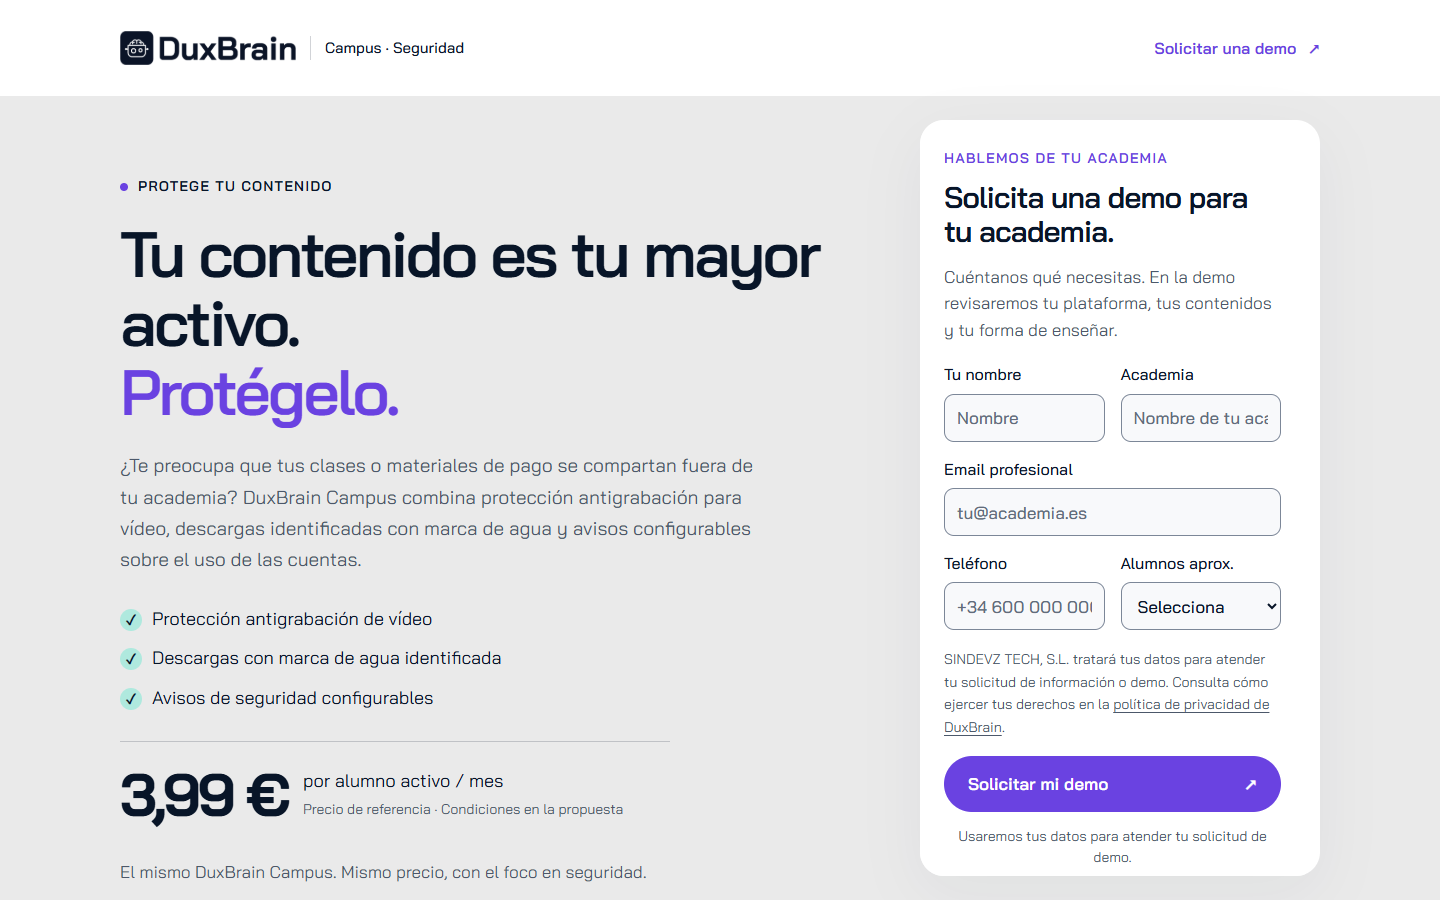
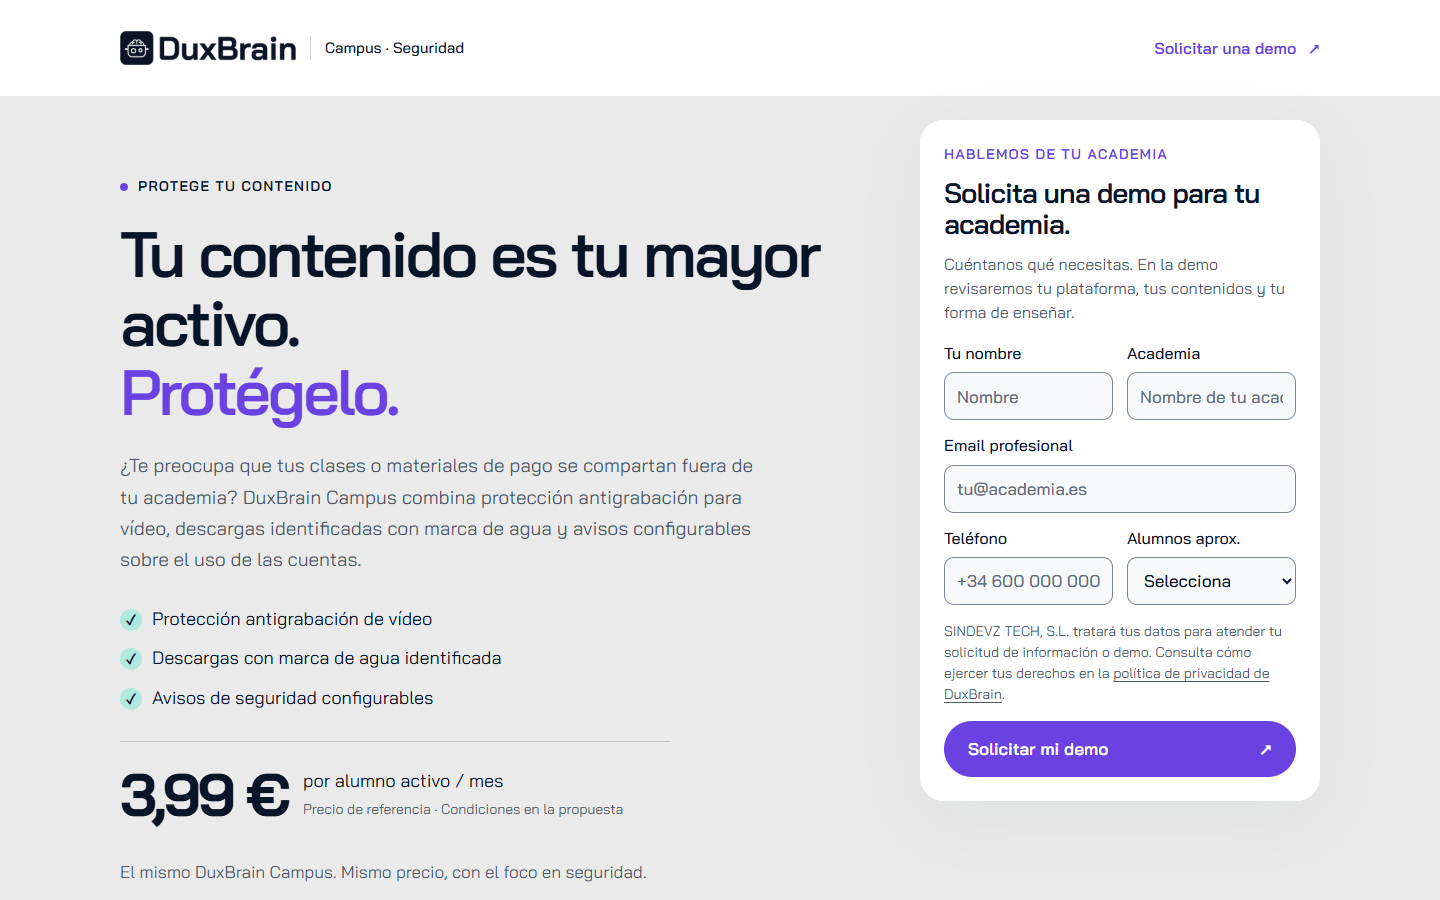
fix: remove internal scrolling from demo forms

Changed region(s): [[0.625, 0.1556, 0.9375, 0.9644], [0.75, 0.3733, 0.9062, 0.4978]]

diff --git a/src/components/demo-navigation.tsx b/src/components/demo-navigation.tsx
@@ -4,6 +4,19 @@ import { useEffect, useState, type MouseEvent, type ReactNode } from "react";
 
 export function DemoNavigation({ children }: { children: ReactNode }) {
   const [barHidden, setBarHidden] = useState(false);
+  const [formFits, setFormFits] = useState(false);
+
+  useEffect(() => {
+    const form = document.getElementById("demo");
+    if (!form) return;
+    // Reserve the initial header offset too, not only the sticky top offset.
+    // Recheck when fonts, validation messages or browser zoom change the height.
+    const measure = () => setFormFits(form.getBoundingClientRect().height <= window.innerHeight - 144);
+    const observer = new ResizeObserver(measure);
+    observer.observe(form);
+    window.addEventListener("resize", measure);
+    return () => { observer.disconnect(); window.removeEventListener("resize", measure); };
+  }, []);
 
   useEffect(() => {
     const form = document.getElementById("demo");
@@ -30,11 +43,10 @@ export function DemoNavigation({ children }: { children: ReactNode }) {
     const form = document.getElementById("demo");
     if (!form) return;
     event.preventDefault();
-    const desktop = window.matchMedia("(min-width: 1100px)").matches;
     const scroller = form.closest<HTMLElement>(".lead-sticky");
-    if (scroller) scroller.scrollTop = 0;
+    const persistent = scroller && window.getComputedStyle(scroller).position === "sticky";
     const bounds = form.getBoundingClientRect();
-    if (!desktop || bounds.top < 0 || bounds.top >= window.innerHeight) {
+    if (!persistent || bounds.top < 0 || bounds.top >= window.innerHeight) {
       form.scrollIntoView({ block: "start", behavior: "instant" });
     }
     // Focus a usable field, or the receipt/error region when the form is locked.
@@ -45,7 +57,7 @@ export function DemoNavigation({ children }: { children: ReactNode }) {
     if (window.location.hash !== "#demo") window.history.pushState(null, "", "#demo");
   }
 
-  return <div className="landing-page" onClick={focusDemo}>
+  return <div className="landing-page" data-form-fits={formFits} onClick={focusDemo}>
     {children}
     <div className="mobile-demo-bar" hidden={barHidden}>
       <a className="button button-primary" href="#demo">Solicitar demo <span aria-hidden="true">↗</span></a>

diff --git a/src/app/globals.css b/src/app/globals.css
@@ -255,13 +255,14 @@ details p { font-size: 17px; line-height: 1.75; padding-top: 20px; max-width: 65
   .landing-journey .container:not(.lead-rail) { padding-right: calc(var(--rail-width) + var(--rail-gap)); }
   .landing-journey .hero { padding-block: 64px 80px; }
   .lead-rail { grid-area: 1 / 1 / 3 / 2; width: var(--rail-width); justify-self: end; align-self: stretch; margin-left: 0; margin-right: max(32px, calc((100% - var(--max-width)) / 2)); padding-block: 24px 64px; min-width: 0; }
-  .lead-sticky { position: sticky; top: 16px; max-height: calc(100dvh - 144px); overflow-y: auto; scrollbar-gutter: stable; background: white; border-radius: var(--radius); box-shadow: var(--shadow); scroll-padding: 20px; }
-  .lead-sticky .lead-card { padding: 28px 24px; box-shadow: none; }
-  .lead-sticky .lead-card h2 { font-size: 30px; }
-  .lead-sticky .form-grid { gap: 16px; }
-  .lead-sticky .form-intro { margin-bottom: 20px; }
+  .lead-sticky { position: static; overflow: visible; background: white; border-radius: var(--radius); box-shadow: var(--shadow); }
+  .landing-page[data-form-fits="true"] .lead-sticky { position: sticky; top: 16px; }
+  .lead-sticky .lead-card { padding: 24px; box-shadow: none; }
+  .lead-sticky .lead-card h2 { font-size: 28px; }
+  .lead-sticky .form-grid { gap: 14px; }
+  .lead-sticky .form-intro { font-size: 16px; line-height: 1.5; margin: 12px 0 18px; }
   .lead-sticky input, .lead-sticky select { height: 48px; }
-  .lead-sticky .privacy { margin-block: 18px; }
+  .lead-sticky .privacy { font-size: 14px; line-height: 1.5; margin-block: 16px; }
   .lead-sticky .button:hover { transform: none; }
   .journey-content .benefit-grid { grid-template-columns: repeat(2, minmax(0, 1fr)); gap: 32px; }
   .journey-content .benefit-card:last-child { grid-column: 1 / -1; }
@@ -271,4 +272,6 @@ details p { font-size: 17px; line-height: 1.75; padding-top: 20px; max-width: 65
   .journey-content .demo-copy p { margin-top: 24px; }
   .journey-content .demo-layout { gap: 40px; }
   .mobile-demo-bar { display: none; }
+  .landing-page[data-form-fits="false"] { padding-bottom: var(--mobile-demo-height); }
+  .landing-page[data-form-fits="false"] .mobile-demo-bar:not([hidden]) { display: block; }
 }

diff --git a/src/components/lead-form.tsx b/src/components/lead-form.tsx
@@ -62,7 +62,6 @@ export function LeadForm({ landing }: { landing: LandingId }) {
       <p className="privacy">SINDEVZ TECH, S.L. tratará tus datos para atender tu solicitud de información o demo. Consulta cómo ejercer tus derechos en la <a href={privacyUrl} target="_blank" rel="noreferrer">política de privacidad de DuxBrain</a>.</p>
       <button className="button button-primary form-button" type="submit">{sending ? "Enviando solicitud…" : finished ? "Solicitud recibida" : uncertain ? "Pendiente de comprobación" : "Solicitar mi demo"} <span aria-hidden="true">↗</span></button>
       </fieldset>
-      <p className="form-notice">Usaremos tus datos para atender tu solicitud de demo.</p>
       <p className="form-status" role="status" tabIndex={-1} ref={statusRef}>{message}</p>
       {!finished && message && reference && <p className="form-notice">Referencia: {reference}</p>}
     </form>

diff --git a/docs/capturas/scroll/revision.md b/docs/capturas/scroll/revision.md
@@ -1,30 +1,30 @@
-# Formulario persistente y revisión Secure
+# Formulario persistente sin scroll interno
 
-Chrome instalado, perfiles temporales propios, zoom real del navegador. Inicio, demostración, FAQ y pie comprobados en cada combinación. Un formulario, sin desbordamiento, con foco por CTA y recorrido de teclado hasta el botón. La API se intercepta; no hay envíos reales. Contenido y metadatos de Plugin y Campus idénticos a f6465cd.
+Chrome instalado, perfiles temporales propios, zoom real del navegador. Inicio, demostración, FAQ y pie comprobados en cada combinación. Un formulario, sin barra interna, recortes ni desbordamiento, con foco por CTA y recorrido de teclado hasta el botón. La privacidad y el botón caben en el escritorio normal; en ventanas bajas y zoom se accede por scroll de página. La API se intercepta; no hay envíos reales. Las comparaciones de contenido de cada revisión constan en docs/revision-contenido.md. Capturas iniciales y con foco en el botón en ../formulario/.
 
 | Ruta | Ventana | Zoom | Comportamiento | Resultado |
 | --- | --- | --- | --- | --- |
-| plugin | 1440 × 900 | 100% | Formulario lateral | Correcto |
-| campus | 1440 × 900 | 100% | Formulario lateral | Correcto |
-| campus-secure | 1440 × 900 | 100% | Formulario lateral | Correcto |
-| plugin | 1280 × 720 | 100% | Formulario lateral | Correcto |
-| campus | 1280 × 720 | 100% | Formulario lateral | Correcto |
-| campus-secure | 1280 × 720 | 100% | Formulario lateral | Correcto |
-| plugin | 768 × 1024 | 100% | CTA compacto | Correcto |
-| campus | 768 × 1024 | 100% | CTA compacto | Correcto |
-| campus-secure | 768 × 1024 | 100% | CTA compacto | Correcto |
-| plugin | 390 × 844 | 100% | CTA compacto | Correcto |
-| campus | 390 × 844 | 100% | CTA compacto | Correcto |
-| campus-secure | 390 × 844 | 100% | CTA compacto | Correcto |
-| plugin | 1440 × 900 | 125% | Formulario lateral | Correcto |
-| campus | 1440 × 900 | 125% | Formulario lateral | Correcto |
-| campus-secure | 1440 × 900 | 125% | Formulario lateral | Correcto |
-| plugin | 1280 × 720 | 125% | CTA compacto | Correcto |
-| campus | 1280 × 720 | 125% | CTA compacto | Correcto |
-| campus-secure | 1280 × 720 | 125% | CTA compacto | Correcto |
-| plugin | 768 × 1024 | 125% | CTA compacto | Correcto |
-| campus | 768 × 1024 | 125% | CTA compacto | Correcto |
-| campus-secure | 768 × 1024 | 125% | CTA compacto | Correcto |
-| plugin | 390 × 844 | 125% | CTA compacto | Correcto |
-| campus | 390 × 844 | 125% | CTA compacto | Correcto |
-| campus-secure | 390 × 844 | 125% | CTA compacto | Correcto |
+| plugin | 1440 × 900 | 100% | Formulario persistente completo | Correcto |
+| campus | 1440 × 900 | 100% | Formulario persistente completo | Correcto |
+| campus-secure | 1440 × 900 | 100% | Formulario persistente completo | Correcto |
+| plugin | 1280 × 720 | 100% | Scroll de página y CTA compacto | Correcto |
+| campus | 1280 × 720 | 100% | Scroll de página y CTA compacto | Correcto |
+| campus-secure | 1280 × 720 | 100% | Scroll de página y CTA compacto | Correcto |
+| plugin | 768 × 1024 | 100% | Scroll de página y CTA compacto | Correcto |
+| campus | 768 × 1024 | 100% | Scroll de página y CTA compacto | Correcto |
+| campus-secure | 768 × 1024 | 100% | Scroll de página y CTA compacto | Correcto |
+| plugin | 390 × 844 | 100% | Scroll de página y CTA compacto | Correcto |
+| campus | 390 × 844 | 100% | Scroll de página y CTA compacto | Correcto |
+| campus-secure | 390 × 844 | 100% | Scroll de página y CTA compacto | Correcto |
+| plugin | 1440 × 900 | 125% | Scroll de página y CTA compacto | Correcto |
+| campus | 1440 × 900 | 125% | Scroll de página y CTA compacto | Correcto |
+| campus-secure | 1440 × 900 | 125% | Scroll de página y CTA compacto | Correcto |
+| plugin | 1280 × 720 | 125% | Scroll de página y CTA compacto | Correcto |
+| campus | 1280 × 720 | 125% | Scroll de página y CTA compacto | Correcto |
+| campus-secure | 1280 × 720 | 125% | Scroll de página y CTA compacto | Correcto |
+| plugin | 768 × 1024 | 125% | Scroll de página y CTA compacto | Correcto |
+| campus | 768 × 1024 | 125% | Scroll de página y CTA compacto | Correcto |
+| campus-secure | 768 × 1024 | 125% | Scroll de página y CTA compacto | Correcto |
+| plugin | 390 × 844 | 125% | Scroll de página y CTA compacto | Correcto |
+| campus | 390 × 844 | 125% | Scroll de página y CTA compacto | Correcto |
+| campus-secure | 390 × 844 | 125% | Scroll de página y CTA compacto | Correcto |

diff --git a/docs/formulario-persistente.md b/docs/formulario-persistente.md
@@ -2,10 +2,14 @@
 
 Una única instancia de `LeadForm` por landing conserva toda la lógica de validación, atribución, UUID, estados y protección contra dobles envíos. No se modifica la API ni se activa la entrega real. `LEADS_SHEETS_WRITES_ENABLED=false` permanece en la configuración de ejemplo.
 
-Desde 1100 píxeles de ancho disponible, una columna lateral de 400 píxeles acompaña hero, beneficios, capturas y FAQ. Los contenidos reservan su espacio y las franjas siguen ocupando el ancho completo. El contenedor termina antes del cierre, de modo que el formulario se detiene antes del pie. En ventanas bajas o con zoom, su altura máxima depende del viewport y admite desplazamiento interno, también con teclado. El botón no se desplaza al pasar el puntero dentro de esta columna.
+Desde 1100 píxeles de ancho disponible, una columna lateral de 400 píxeles acompaña hero, beneficios, capturas y FAQ **si la tarjeta completa cabe en la ventana**. Los contenidos reservan su espacio y las franjas siguen ocupando el ancho completo. El contenedor termina antes del cierre, de modo que el formulario se detiene antes del pie. La tarjeta no tiene altura máxima ni scroll interno: todo su contenido permanece en el flujo, sin recortes.
+
+Un `ResizeObserver` comprueba la altura real de la tarjeta, también al cambiar fuentes o aparecer mensajes, y se recalcula al redimensionar la ventana o cambiar el zoom. Se reservan 144 píxeles para el desplazamiento inicial bajo la cabecera y el margen inferior. Si no cabe, se desactiva sticky y se accede a campos, privacidad y botón mediante el scroll normal de la página. En ese caso también puede aparecer el CTA compacto para volver al formulario desde el contenido. Sin JavaScript, el formulario permanece en el flujo normal.
+
+Se elimina la frase redundante bajo el botón. El aviso de SINDEVZ TECH, S.L. y su enlace siguen antes del botón, con 14 píxeles y un interlineado de 1,5. Se compactan márgenes, introducción y título de escritorio; se mantienen los campos a 48 píxeles de alto y sus textos a 17 píxeles. El botón no se desplaza al pasar el puntero dentro de la columna.
 
 Por debajo de 1100 píxeles, el formulario está en el flujo después del hero. Una barra inferior con «Solicitar demo» respeta el área segura y lleva al mismo formulario, enfocando el primer campo habilitado. Se oculta cuando el formulario está visible o el pie está próximo. Hay espacio inferior y margen de desplazamiento para los controles de teclado. Los enlaces normales siguen funcionando sin JavaScript. El cambio a barra depende del ancho disponible: el zoom del navegador puede activarlo.
 
-`node scripts/review-demo-rail.mjs http://localhost:3100` comprueba tres rutas, cuatro ventanas y dos niveles de zoom real (24 combinaciones), con perfiles temporales de Chrome propios. Comprueba inicio, demostración, FAQ, pie, unicidad del formulario, ausencia de desbordamiento, espacio reservado, foco y recorrido por todos los campos hasta enviar. Las peticiones a `/api/leads` se interceptan. [Resultados y capturas intermedias](capturas/scroll/revision.md).
+`node scripts/review-demo-rail.mjs http://localhost:3100` comprueba tres rutas, cuatro ventanas y dos niveles de zoom real (24 combinaciones), con perfiles temporales de Chrome propios. Comprueba inicio, demostración, FAQ, pie, unicidad del formulario, ausencia de barra interna y recortes, espacio reservado, foco y recorrido por todos los campos hasta enviar. A 1440 × 900 el formulario completo es persistente, con privacidad y botón visibles; a 1280 × 720 y con zoom al 125 % se comprueba el acceso por scroll normal. Las peticiones a `/api/leads` se interceptan. [Resultados y capturas intermedias](capturas/scroll/revision.md). Capturas específicas de ventana y zoom en [formulario](capturas/formulario/).
 
 `node scripts/review-landings.mjs http://localhost:3100` actualiza las seis capturas completas y comprueba CSS, imágenes, FAQ, anclas y envío simulado con atribución. `node scripts/check-lead-form.mjs` revisa los estados simulados de éxito, configuración ausente y respuesta incierta sobre ese mismo puerto. Ninguna de estas comprobaciones utiliza Google Sheets ni SMTP reales.
